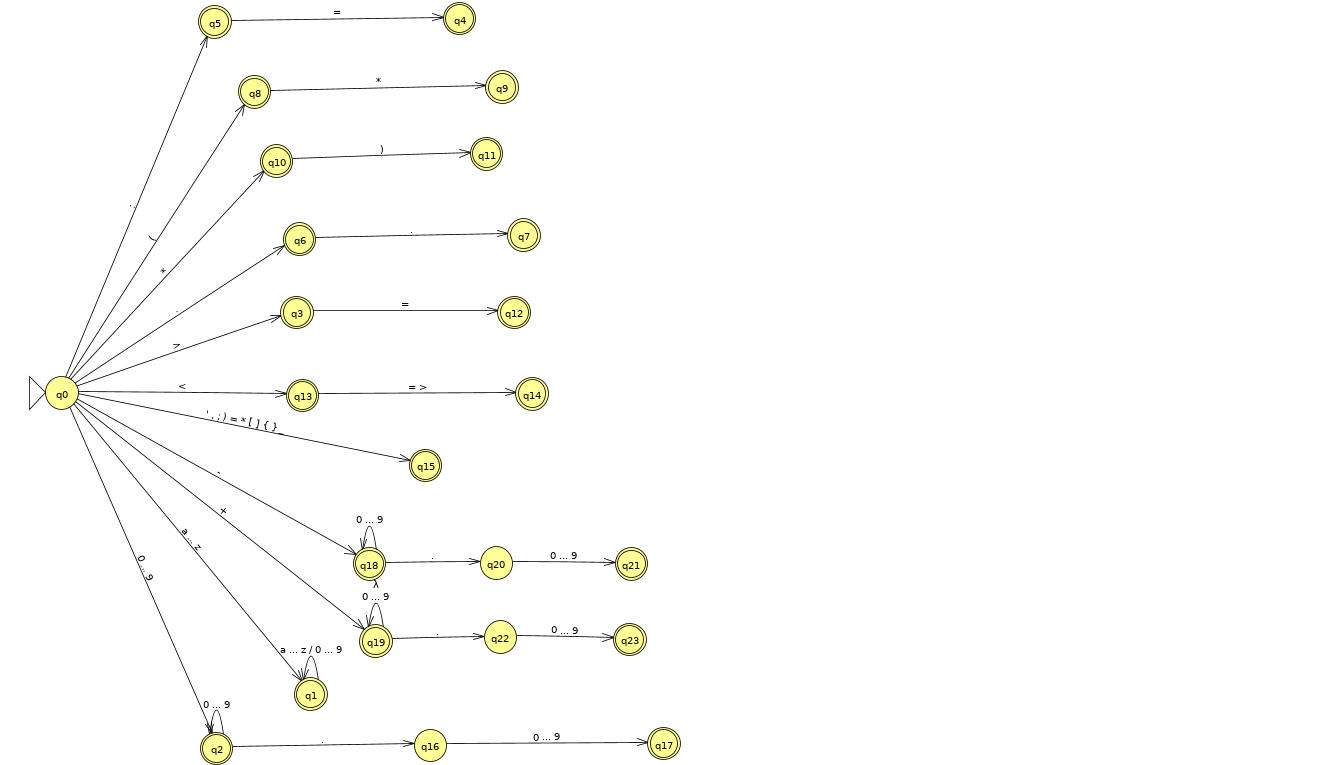
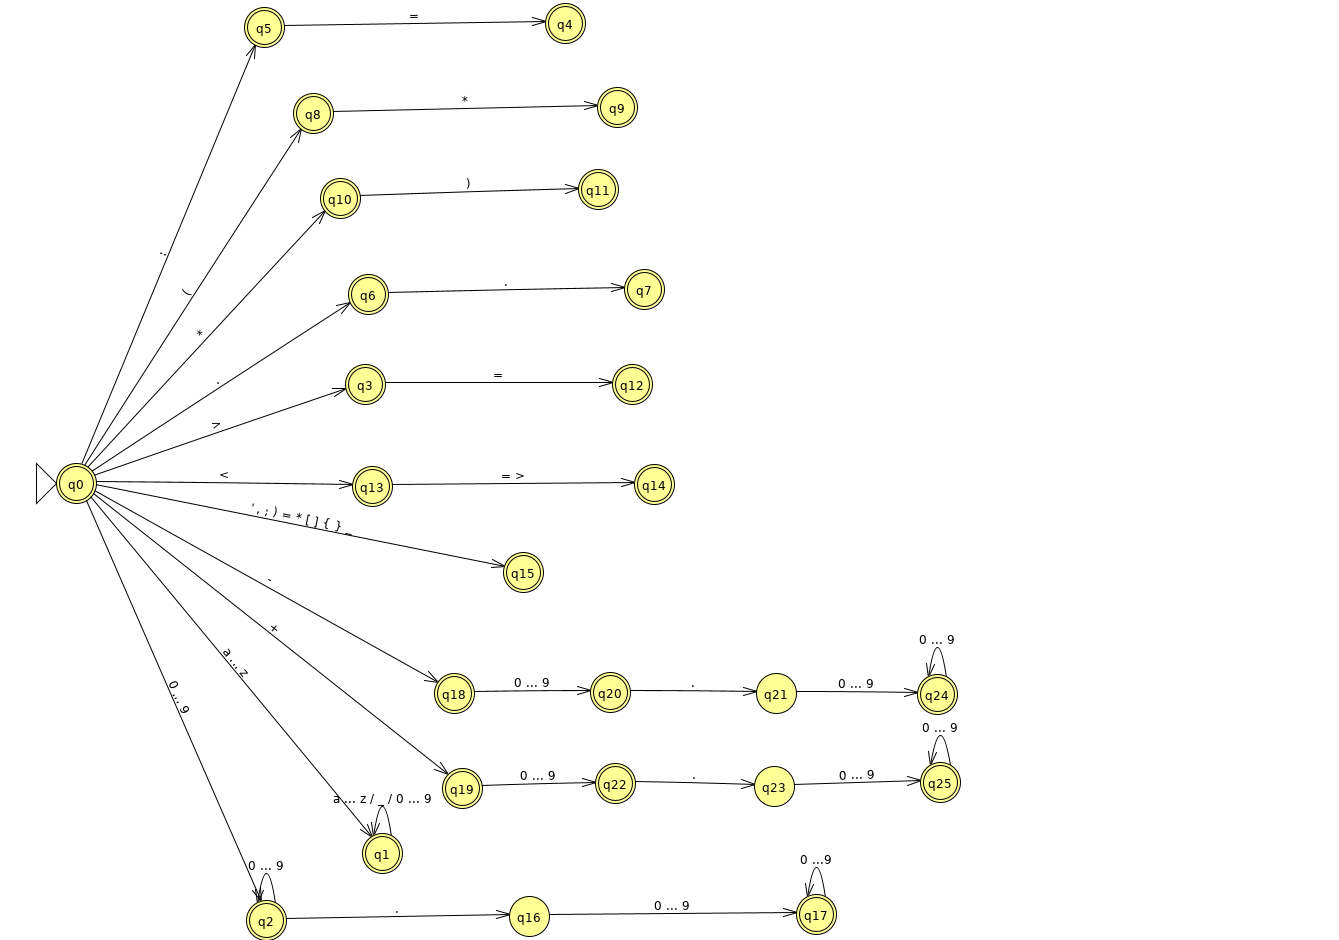
fixed + -

diff --git a/main.py b/main.py
@@ -39,18 +39,22 @@ states = [  # : ( * . > < ' , ; ) = * [ ] { } _ - + a...z 0...9
              -1, -1, -1, -1, 17],  # q16
             [-1, -1, -1, -1, -1, -1, -1, -1, -1, -1, -1, -1, -1, -1, -1, -1,
              -1, -1, -1, -1, 17],  # q17
-            [-1, -1, -1, 20, -1, -1, -1, -1, -1, -1, -1, -1, -1, -1, -1, -1,
-             -1, -1, -1, -1, 18],  # q18
-            [-1, -1, -1, 22, -1, -1, -1, -1, -1, -1, -1, -1, -1, -1, -1, -1,
-             -1, -1, -1, -1, 19],  # q19
             [-1, -1, -1, -1, -1, -1, -1, -1, -1, -1, -1, -1, -1, -1, -1, -1,
-             -1, -1, -1, -1, 21],  # q20
+             -1, -1, -1, -1, 20],  # q18
             [-1, -1, -1, -1, -1, -1, -1, -1, -1, -1, -1, -1, -1, -1, -1, -1,
-             -1, -1, -1, -1, 21],  # q21
+             -1, -1, -1, -1, 22],  # q19
+            [-1, -1, -1, 21, -1, -1, -1, -1, -1, -1, -1, -1, -1, -1, -1, -1,
+             -1, -1, -1, -1, -1],  # q20
             [-1, -1, -1, -1, -1, -1, -1, -1, -1, -1, -1, -1, -1, -1, -1, -1,
-             -1, -1, -1, -1, 23],  # q22
+             -1, -1, -1, -1, 24],  # q21
+            [-1, -1, -1, 23, -1, -1, -1, -1, -1, -1, -1, -1, -1, -1, -1, -1,
+             -1, -1, -1, -1, -1],  # q22
             [-1, -1, -1, -1, -1, -1, -1, -1, -1, -1, -1, -1, -1, -1, -1, -1,
-             -1, -1, -1, -1, 23],  # q23
+             -1, -1, -1, -1, 25],  # q23
+            [-1, -1, -1, -1, -1, -1, -1, -1, -1, -1, -1, -1, -1, -1, -1, -1,
+             -1, -1, -1, -1, 24],  # q24
+            [-1, -1, -1, -1, -1, -1, -1, -1, -1, -1, -1, -1, -1, -1, -1, -1,
+             -1, -1, -1, -1, 25],  # q25
             ]
 palavras_reservadas = [
                         'and', 'array', 'asm', 'begin', 'case', 'const',
@@ -83,17 +87,41 @@ cap_letters = [
 numbers = [
             '0', '1', '2', '3', '4', '5', '6', '7', '8', '9'
             ]
-double_special_symbol_states = [
-                                4, 9, 11, 7, 12, 14
-                            ]
-special_symbol_state = 15
-positive_number_state = 19
-negative_number_state = 18
-real_positive_number_state = 23
-real_negative_number_state = 21
+identif_state = 1
 integer_state = 2
+special_symbol_states = [
+                        3, 5, 6, 8, 10, 13, 15, 18, 19
+                        ]
+double_special_symbol_states = [
+                                4, 7, 9, 11, 12, 14
+                                ]
 real_number_state = 17
-non_final_states = [20, 22, 16]
+negative_number_state = 20
+positive_number_state = 22
+non_final_states = [21, 23, 16]
+real_positive_number_state = 25
+real_negative_number_state = 24
+
+
+def get_state_string(state):
+    if state == identif_state:
+        return 'identificador'
+    elif state == integer_state:
+        return 'número inteiro'
+    elif state == 'special_symbol_states':
+        return 'simbolo especial'
+    elif state in double_special_symbol_states:
+        return 'simbolo especial duplo'
+    elif state == real_number_state:
+        return 'número real'
+    elif state == negative_number_state:
+        return 'número negativo'
+    elif state == 'positive_number_state':
+        return 'número positivo'
+    elif state == real_positive_number_state:
+        return 'numero real positivo'
+    elif state == real_negative_number_state:
+        return 'numero real '
 
 
 #  Checa se o símbolo válido pertence ao alfabeto
